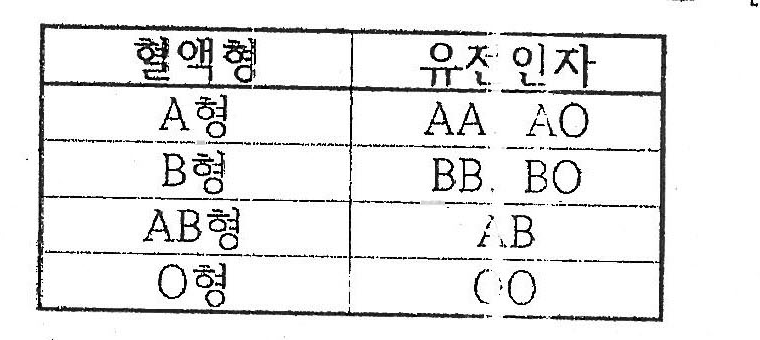
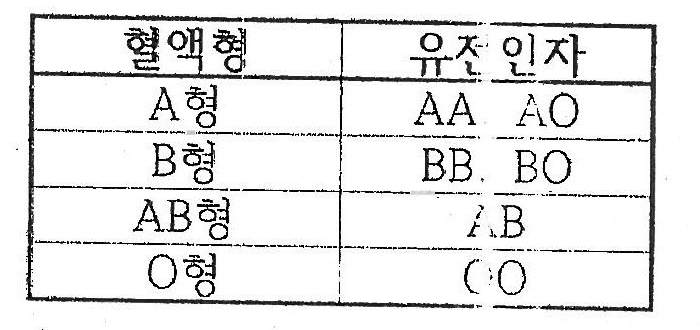
fix(m2): restore 2020 Pungdeok essay and genotype table

Changed region(s): [[0.03, 0.0303, 0.96, 0.9697], [0.6, 0.8182, 0.63, 0.8788], [0.99, 0.0, 1.0, 0.0303]]

diff --git a/archive/_generated/source-only/m2-20261004/20_풍덕중_2학기_기말_중2_기출.js b/archive/_generated/source-only/m2-20261004/20_풍덕중_2학기_기말_중2_기출.js
@@ -19,10 +19,10 @@ window.questionBank = [
   { id: 17, questionType: "객관식", tags: ["확률"], content: "동전 한 개와 주사위 한 개를 동시에 던질 때, 동전은 앞면이 나오고 주사위는 2의 배수가 나올 확률은? [4점]", choices: ["$\\frac{1}{12}$", "$\\frac{1}{6}$", "$\\frac{3}{12}$", "$\\frac{1}{3}$", "$\\frac{5}{12}$"] },
   { id: 18, questionType: "객관식", tags: ["확률"], content: "아래 그림과 같이 10등분한 원판이 있다. 이 원판의 바늘이 돌다가 멈추었을 때, 바늘이 소수를 가리킬 확률은? [4점]", choices: ["$\\frac{1}{5}$", "$\\frac{3}{10}$", "$\\frac{2}{5}$", "$\\frac{1}{2}$", "$\\frac{3}{5}$"], image: "assets/images/20_풍덕중_2학기_기말_중2_기출/q18.png" },
   { id: 19, questionType: "객관식", tags: ["확률"], content: "두 개의 동전을 동시에 던질 때, 앞면이 적어도 한 번 나올 확률은? [4점]", choices: ["0", "$\\frac{1}{4}$", "$\\frac{1}{2}$", "$\\frac{3}{4}$", "1"] },
-  { id: 20, questionType: "객관식", tags: ["확률", "유전"], content: "사람의 혈액형은 ABO식에 따르면 네 가지의 혈액형, 즉 A형, B형, AB형, O형으로 나누어진다. 각 혈액형이 나오는 유전인자는 다음 그림과 같다. 아버지가 A(AO)형, 어머니가 B(BO)형일 때, 그 자녀가 AB형일 확률은? [4점]\n<유전인자>\nA형: AA, AO\nB형: BB, BO\nAB형: AB\nO형: OO", choices: ["0", "$\\frac{1}{4}$", "$\\frac{1}{2}$", "$\\frac{3}{4}$", "1"], image: "assets/images/20_풍덕중_2학기_기말_중2_기출/q20.png" },
-  { id: 21, questionType: "객관식", tags: ["확률", "경우의 수"], content: "다음은 프랑스의 도박사 드 메레가 파스칼에게 보낸 편지이다. 파스칼은 이 문제를 두 사람이 각각 이길 가능성을 따져 해결했다고 한다. A와 B가 나누어 가질 상금을 구하면? [4점]\n\nTo. 파스칼\n\n친애하는 파스칼!\n나는 다음과 같은 심각한 문제에 봉착했네.\n\n실력이 비슷한 두 사람이 내기를 했네.\n먼저 세 번 이긴 사람이 96만 원을 가지기로 했는데,\nA가 두 번 이기고 B가 한 번 이긴 상태에서 시합이 중단되었네.\n이럴 경우 상금은 어떻게 나누는 것이 좋겠나?\n\nFrom. 드 메레", choices: ["A: 96만 원, B: 0원", "A: 72만 원, B: 24만 원", "A: 64만 원, B: 32만 원", "A: 48만 원, B: 48만 원", "A: 0원, B: 96만 원"], image: "assets/images/20_풍덕중_2학기_기말_중2_기출/q21.png" },
-  { id: 22, questionType: "서술형", tags: ["일차함수"], content: "지상으로부터 $90\\text{ m}$ 높이에서 출발하여 초속 $3\\text{ m}$로 내려오는 어떤 승강기가 있다. 이 승강기가 출발한 지 $x$초 후의 지상으로부터의 높이를 $y\\text{ m}$라고 할 때, 다음 물음에 답하시오.\n(1) $y$를 $x$에 대한 식으로 나타내시오. (서술형) [2점]\n(2) 승강기가 지상으로부터 $30\\text{ m}$ 높이에 도착하는 것은 출발한 지 몇 초 후인지 구하시오. (서술형) [2점]", choices: [] },
-  { id: 23, questionType: "서술형", tags: ["일차방정식의 그래프", "넓이"], content: "두 일차방정식 $2x+y-2=0$과 $x-y-4=0$에 대하여 다음 물음에 답하시오.\n(1) 두 일차방정식의 $x$, $y$절편을 포함한 개략적인 그래프를 그리시오. (서술형) [2점]\n(2) 두 일차방정식의 교점의 좌표를 구하시오. (서술형) [2점]\n(3) 두 일차방정식 그래프와 $y$축과 둘러싸인 도형의 넓이를 구하시오. (서술형) [2점]", choices: [] },
-  { id: 24, questionType: "서술형", tags: ["연립방정식", "확률"], content: "한 개의 주사위를 두 번 던져 처음에 나오는 눈의 수를 $a$, 나중에 나오는 눈의 수를 $b$라고 할 때, 연립방정식 $\\begin{cases} 2x+ay=6 \\\\ bx+3y=2 \\end{cases}$의 그래프가 한 점에서 만날 때 확률을 구하시오.\n(1) 모든 경우의 수를 구하시오. (단답형) [1점]\n(2) 그래프가 한 점에서 만날 조건을 구하시오. (서술형) [2점]\n(3) 그래프가 한 점에서 만날 확률을 구하시오. (서술형) [2점]", choices: [] },
-  { id: 25, questionType: "서술형", tags: ["확률"], content: "주머니 속에 흰 공이 4개, 검은 공이 6개가 들어 있다. 두 사람이 차례로 공을 꺼낼 때, 둘 다 같은 색의 공을 꺼낼 확률을 구하여라. (단, 꺼낸 공은 다시 넣지 않는다.) (풀이과정은 자세히 쓰시오) [5점]", choices: [] }
+  { id: 20, questionType: "객관식", tags: ["확률", "유전"], content: "사람의 혈액형은 ABO식에 따르면 네 가지의 혈액형, 즉 A형, B형, AB형, O형으로 나누어진다. 각 혈액형이 나오는 유전인자는 다음 그림과 같다. 아버지가 A(AO)형, 어머니가 B(BO)형일 때, 그 자녀가 AB형일 확률은? [4점]", choices: ["0", "$\\frac{1}{4}$", "$\\frac{1}{2}$", "$\\frac{3}{4}$", "1"], image: "assets/images/20_풍덕중_2학기_기말_중2_기출/q20.png" },
+  { id: 21, questionType: "객관식", tags: ["확률", "경우의 수"], content: "다음은 프랑스의 도박사 드 메레가 파스칼에게 보낸 편지이다. 파스칼은 이 문제를 두 사람이 각각 이길 가능성을 따져 해결했다고 한다. A와 B가 나누어 가질 상금을 구하면? [4점]\n\nTo. 파스칼\n\n친애하는 파스칼!\n나는 다음과 같은 심각한 문제에 봉착했네.\n\n실력이 비슷한 두 사람이 내기를 했네.\n먼저 세 번 이긴 사람이 96만 원을 가지기로 했는데,\nA가 두 번 이기고 B가 한 번 이긴 상태에서 시합이 중단되었네.\n이럴 경우 상금은 어떻게 나누는 것이 좋겠나?\n\nFrom. 드 메레", choices: ["A: 96만 원, B: 0원", "A: 72만 원, B: 24만 원", "A: 64만 원, B: 32만 원", "A: 48만 원, B: 48만 원", "A: 0원, B: 96만 원"] },
+  { id: 22, questionType: "서술형", tags: ["일차함수"], content: "&lt;서술형 1&gt; 지상으로부터 $90\\text{ m}$ 높이에서 출발하여 초속 $3\\text{ m}$로 내려오는 어떤 승강기가 있다. 이 승강기가 출발한 지 $x$초 후의 지상으로부터의 높이를 $y\\text{ m}$라고 할 때, 다음 물음에 답하시오.\n(1) $y$를 $x$에 대한 식으로 나타내시오. (서술형) [2점]\n(2) 승강기가 지상으로부터 $30\\text{ m}$ 높이에 도착하는 것은 출발한 지 몇 초 후인지 구하시오. (서술형) [2점]", choices: [] },
+  { id: 23, questionType: "서술형", tags: ["일차방정식의 그래프", "넓이"], content: "&lt;서술형 2&gt; 두 일차방정식 $2x+y-2=0$과 $x-y-4=0$에 대하여 다음 물음에 답하시오.\n(1) 두 일차방정식의 $x$, $y$절편을 포함한 개략적인 그래프를 그리시오. (서술형) [2점]\n(2) 두 일차방정식의 교점의 좌표를 구하시오. (서술형) [2점]\n(3) 두 일차방정식 그래프와 $y$축과 둘러싸인 도형의 넓이를 구하시오. (서술형) [2점]", choices: [] },
+  { id: 24, questionType: "서술형", tags: ["연립방정식", "확률"], content: "&lt;서술형 3&gt; 한 개의 주사위를 두 번 던져 처음에 나오는 눈의 수를 $a$, 나중에 나오는 눈의 수를 $b$라고 할 때, 연립방정식 $\\begin{cases} 2x+ay=6 \\\\ bx+3y=2 \\end{cases}$의 그래프가 한 점에서 만날 때 확률을 구하시오.\n(1) 모든 경우의 수를 구하시오. (단답형) [1점]\n(2) 그래프가 한 점에서 만날 조건을 구하시오. (서술형) [2점]\n(3) 그래프가 한 점에서 만날 확률을 구하시오. (서술형) [2점]", choices: [] },
+  { id: 25, questionType: "서술형", tags: ["확률"], content: "&lt;서술형 4&gt; 주머니 속에 흰 공이 4개, 검은 공이 6개가 들어 있다. 두 사람이 차례로 공을 꺼낼 때, 둘 다 같은 색의 공을 꺼낼 확률을 구하여라. (단, 꺼낸 공은 다시 넣지 않는다.) (풀이과정은 자세히 쓰시오) [5점]", choices: [] }
 ];
